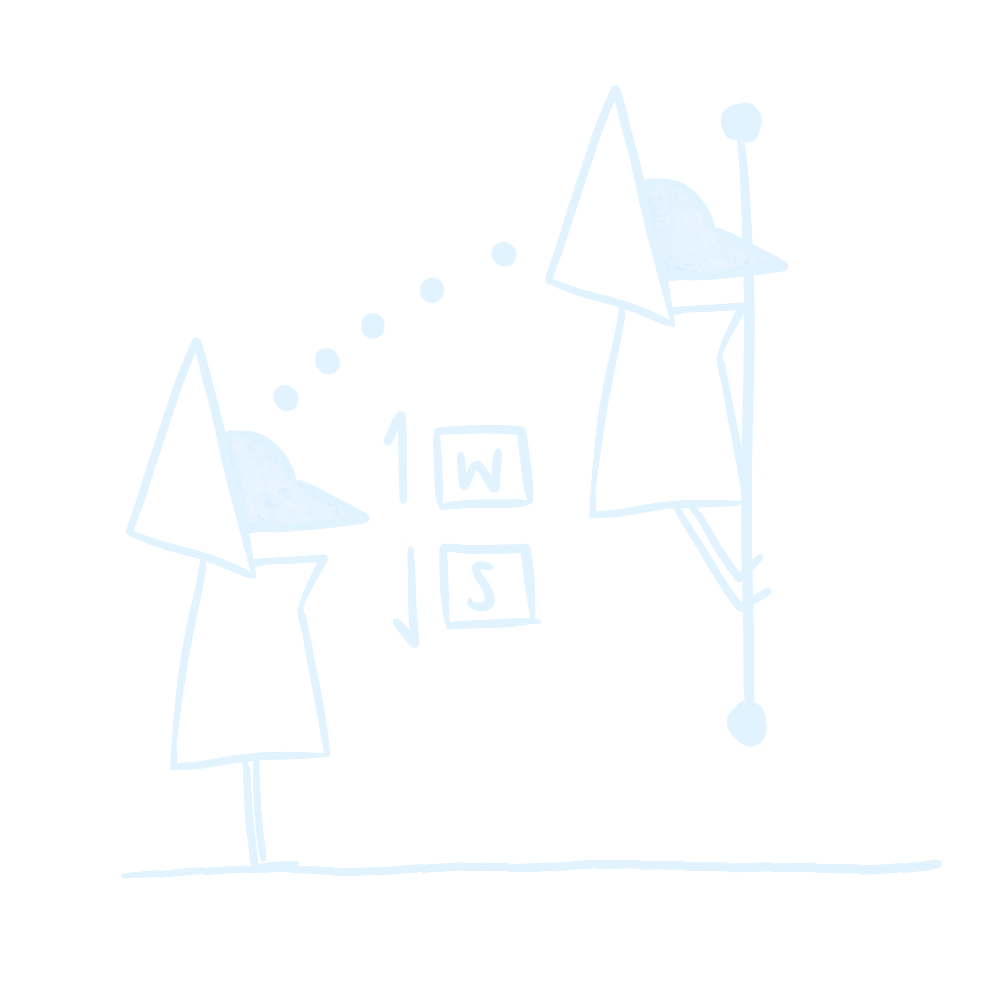
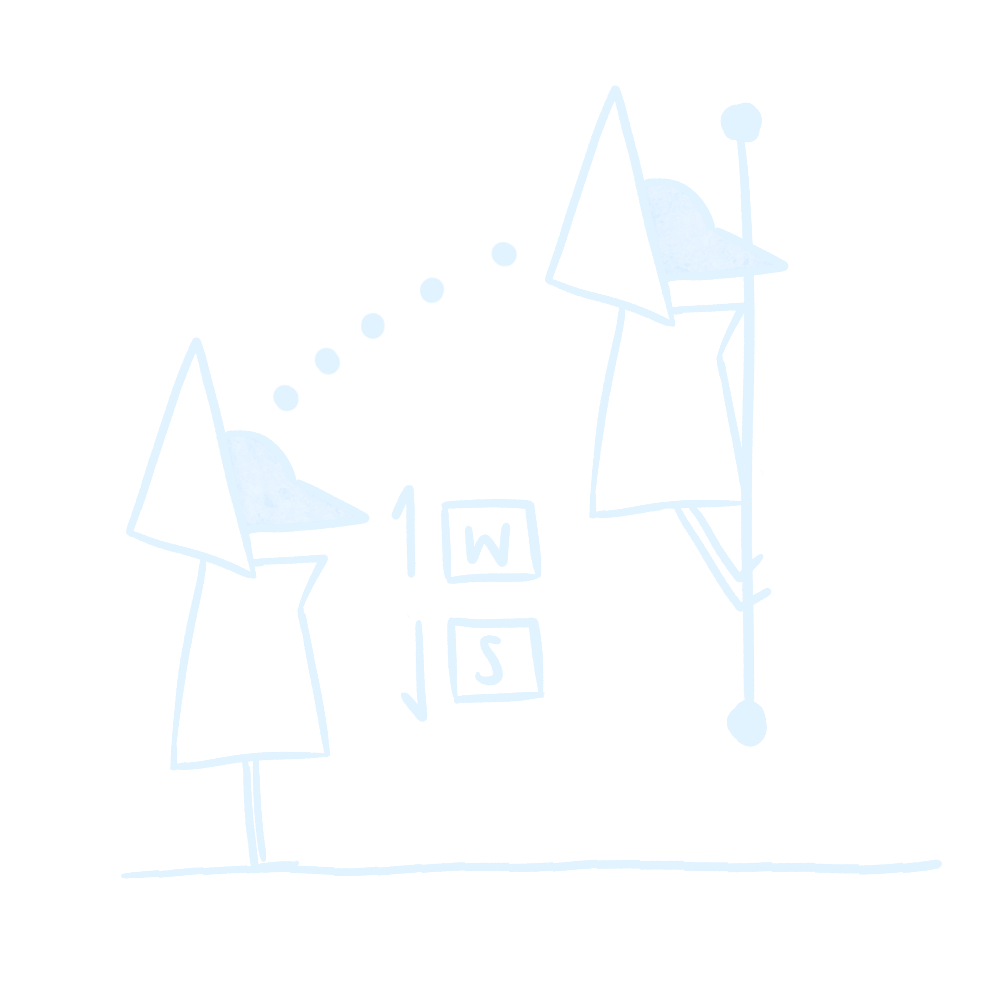
controller input textures + some others

Changed region(s): [[0.372, 0.403, 0.558, 0.713]]

diff --git a/Physics/Physics/assets/BackgroundAssets.tsx b/Physics/Physics/assets/BackgroundAssets.tsx
@@ -1,5 +1,5 @@
 <?xml version="1.0" encoding="UTF-8"?>
-<tileset version="1.10" tiledversion="1.10.2" name="backgroundAssets" tilewidth="1000" tileheight="1000" tilecount="16" columns="0">
+<tileset version="1.10" tiledversion="1.10.2" name="backgroundAssets" tilewidth="1000" tileheight="1000" tilecount="19" columns="0">
  <grid orientation="orthogonal" width="1" height="1"/>
  <tile id="0">
   <properties>
@@ -67,5 +67,14 @@
  </tile>
  <tile id="16">
   <image width="500" height="700" source="backgroundAssets/banner.png"/>
+ </tile>
+ <tile id="21">
+  <image width="1000" height="1000" source="backgroundAssets/tutChest.png"/>
+ </tile>
+ <tile id="22">
+  <image width="1000" height="1000" source="backgroundAssets/tutJumpPro.png"/>
+ </tile>
+ <tile id="23">
+  <image width="1000" height="1000" source="backgroundAssets/tutMoth.png"/>
  </tile>
 </tileset>

diff --git a/Physics/Physics/core/src/main/java/edu/cornell/cis3152/physics/GameplayScene.java b/Physics/Physics/core/src/main/java/edu/cornell/cis3152/physics/GameplayScene.java
@@ -787,6 +787,7 @@ public class GameplayScene implements Screen {
                     addSprite(tile);
                 }
             } else if (layerType.equals("objectgroup")) {
+                InputController input = InputController.getInstance();
                 Map<String, JsonValue> ropeAnchors = new HashMap<>();
                 HashSet<JsonValue> runeButtonReorganizing = new HashSet<>();
                 for (JsonValue object : layer.get("objects")) {
@@ -1147,8 +1148,61 @@ public class GameplayScene implements Screen {
                                 decoration.getObstacle().setName(objName);
 
                                 addSprite(decoration);
+                                if (input.isUsingController()) {
+                                    if (objName.equals("tClimb")) {
+                                        GameObject contInfo = new GameObject(x, y, width, height,
+                                            units, true);
+                                        contInfo.getObstacle().setSensor(true);  // set as sensor
+                                        contInfo.getObstacle().setBodyType(BodyType.StaticBody);
+                                        contInfo.setTexture(
+                                            directory.getEntry("contClimb", Texture.class));
+                                        contInfo.getObstacle().setName(objName);
+
+                                        addSprite(contInfo);
+                                    } else if (objName.equals("tJump")) {
+                                        GameObject contInfo = new GameObject(x, y, width, height,
+                                            units, true);
+                                        contInfo.getObstacle().setSensor(true);  // set as sensor
+                                        contInfo.getObstacle().setBodyType(BodyType.StaticBody);
+                                        contInfo.setTexture(
+                                            directory.getEntry("contJump", Texture.class));
+                                        contInfo.getObstacle().setName(objName);
+
+                                        addSprite(contInfo);
+                                    } else if (objName.equals("tJumpPro")) {
+                                        GameObject contInfo = new GameObject(x, y, width, height,
+                                            units, true);
+                                        contInfo.getObstacle().setSensor(true);  // set as sensor
+                                        contInfo.getObstacle().setBodyType(BodyType.StaticBody);
+                                        contInfo.setTexture(
+                                            directory.getEntry("contJumpPro", Texture.class));
+                                        contInfo.getObstacle().setName(objName);
+
+                                        addSprite(contInfo);
+                                    } else if (objName.equals("tMove")) {
+                                        GameObject contInfo = new GameObject(x, y, width, height,
+                                            units, true);
+                                        contInfo.getObstacle().setSensor(true);  // set as sensor
+                                        contInfo.getObstacle().setBodyType(BodyType.StaticBody);
+                                        contInfo.setTexture(
+                                            directory.getEntry("contMove", Texture.class));
+                                        contInfo.getObstacle().setName(objName);
+
+                                        addSprite(contInfo);
+                                    } else if (objName.equals("tThrow")) {
+                                        GameObject contInfo = new GameObject(x, y, width, height,
+                                            units, true);
+                                        contInfo.getObstacle().setSensor(true);  // set as sensor
+                                        contInfo.getObstacle().setBodyType(BodyType.StaticBody);
+                                        contInfo.setTexture(
+                                            directory.getEntry("contThrow", Texture.class));
+                                        contInfo.getObstacle().setName(objName);
+
+                                        addSprite(contInfo);
+                                    }
+                                }
                             } else {
-//                                System.out.println("Unknown object: " + objName);
+                                System.out.println("Unknown object: " + objName);
                             }
                         }
                     }

diff --git a/Physics/Physics/core/src/main/java/edu/cornell/cis3152/physics/level_player/player/Torch.java b/Physics/Physics/core/src/main/java/edu/cornell/cis3152/physics/level_player/player/Torch.java
@@ -154,7 +154,7 @@ public class Torch extends EnhancedObstacleSprite {
     private final Affine2 flipCache = new Affine2();
     @Override
     public void draw(SpriteBatch batch) {
-        if (!onRight) {
+        if (!onRight && obstacle.getGravityScale() != 0) {
             flipCache.setToScaling( 1,1 );
         } else {
             flipCache.setToScaling( -1,1 );
